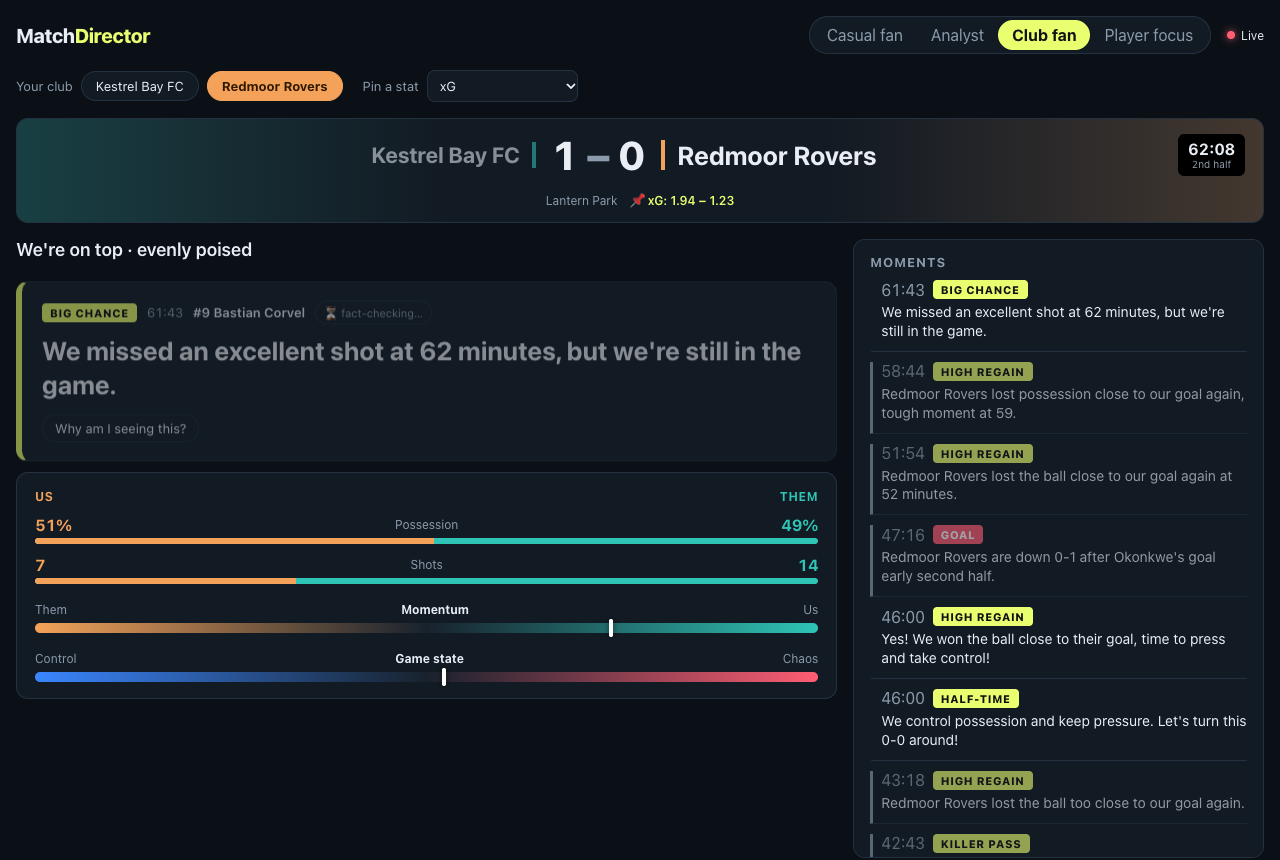
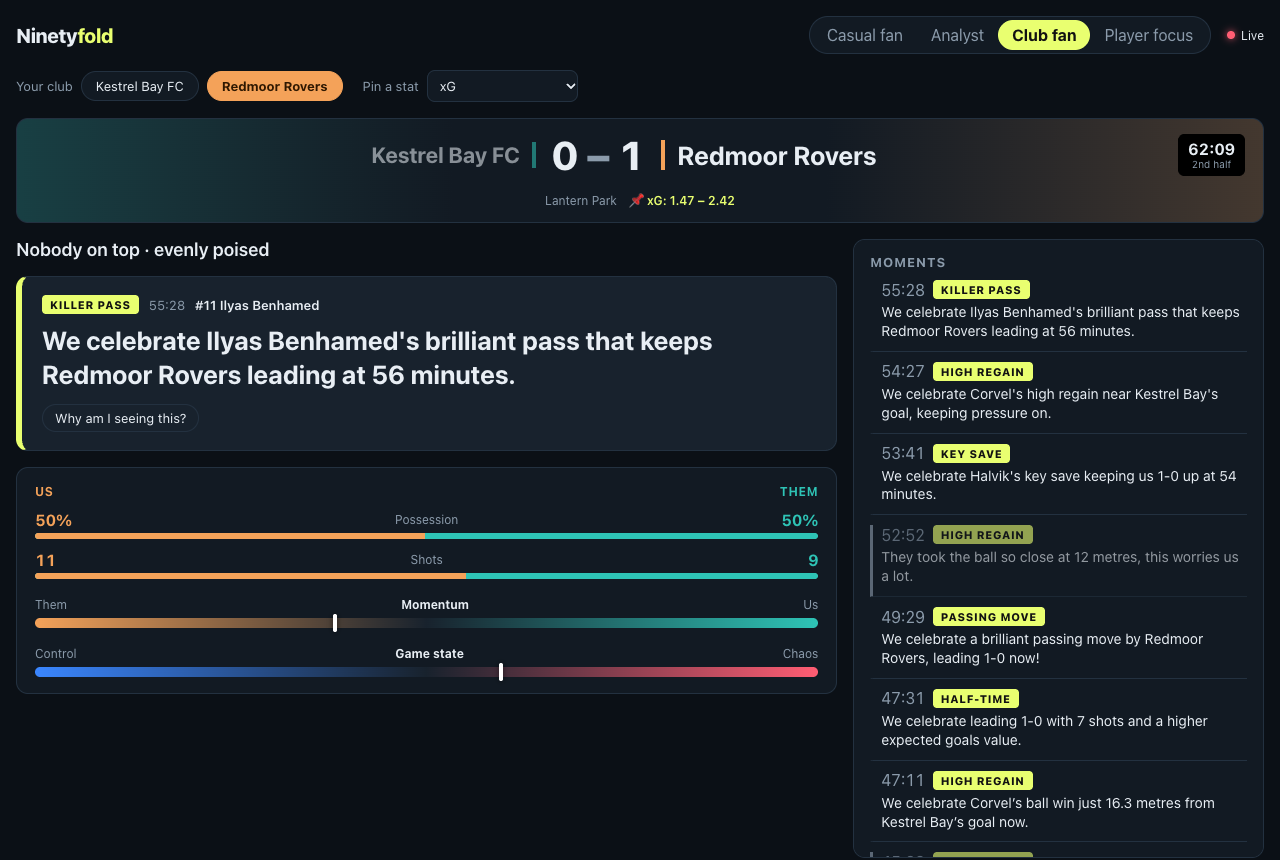
Rename the product to Ninetyfold
The app header, browser tab, README and evaluation report now use the
product name Ninetyfold; the code keeps MatchDirector as its project
and namespace name, as the README notes. README screenshots retaken
with the new name. The Copilot instructions state the product name.

diff --git a/src/web/src/App.tsx b/src/web/src/App.tsx
@@ -29,7 +29,7 @@ export default function App() {
     <div className={`studio mode-${prefs.mode}`}>
       <header className="topbar">
         <div className="brand">
-          Match<span>Director</span>
+          Ninety<span>fold</span>
         </div>
         <nav className="mode" aria-label="Viewer mode">
           {MODES.map((m) => (

diff --git a/src/web/index.html b/src/web/index.html
@@ -4,7 +4,7 @@
     <meta charset="UTF-8" />
     <link rel="icon" type="image/svg+xml" href="/favicon.svg" />
     <meta name="viewport" content="width=device-width, initial-scale=1.0" />
-    <title>MatchDirector</title>
+    <title>Ninetyfold</title>
   </head>
   <body>
     <div id="root"></div>

diff --git a/eval/MatchDirector.Eval/EvalReport.cs b/eval/MatchDirector.Eval/EvalReport.cs
@@ -49,7 +49,7 @@ public sealed class EvalReport(EvalOptions options)
     private string Markdown()
     {
         var md = new StringBuilder();
-        md.AppendLine("# MatchDirector evaluation");
+        md.AppendLine("# Ninetyfold evaluation");
         md.AppendLine();
         md.AppendLine($"Generated {DateTimeOffset.UtcNow:yyyy-MM-dd HH:mm} UTC by `eval/MatchDirector.Eval`. All matches are synthetic and seeded, so the deterministic results reproduce exactly; model results vary slightly between runs.");
         md.AppendLine();

diff --git a/README.md b/README.md
@@ -1,14 +1,14 @@
-# MatchDirector
+# Ninetyfold
 
 **An AI broadcast studio for explainable, personalised match intelligence.**
 
-MatchDirector watches a live (synthetic) football match and runs a small studio of AI agents over it. Code computes every statistic; the agents explain *why* each moment matters, check each other's work, and tell the same match differently to a casual fan, an analyst, a supporter of either club, or someone following one player. At full time they write the match report.
+Ninetyfold watches a live (synthetic) football match and runs a small studio of AI agents over it. Code computes every statistic; the agents explain *why* each moment matters, check each other's work, and tell the same match differently to a casual fan, an analyst, a supporter of either club, or someone following one player. At full time they write the match report.
 
 > **Numbers come from code; words come from AI.** Models never calculate a statistic. They only word facts that the stats engine has already computed, every number they write is checked against those facts, and every moment cites the events behind it.
 
 **Live demo:** https://overlayhub.whitemeadow-6a3a991d.swedencentral.azurecontainerapps.io. Matches play on demand: opening the page kicks one off within seconds (one match is about 9 minutes at 10× speed).
 
-*All clubs, players, venues and match data are fictional and generated synthetically. Built for the* Inside the Game *developer hackathon, October 2026.*
+*All clubs, players, venues and match data are fictional and generated synthetically. Built for the* Inside the Game *developer hackathon, October 2026. The code still uses the working name `MatchDirector` for its projects and namespaces.*
 
 | Analyst | Club fan |
 |---|---|
@@ -58,7 +58,7 @@ flowchart LR
 
 ## Challenge stages
 
-| Stage | What MatchDirector does | Where to look |
+| Stage | What Ninetyfold does | Where to look |
 |---|---|---|
 | (a) Ingest live events | Deterministic simulator streaming to Event Hubs; JSON-lines export as a reusable synthetic dataset | [`src/MatchDirector.Simulator`](src/MatchDirector.Simulator) |
 | (b) Interpret into stats and patterns | xG from distance and angle, pass difficulty and progression, ball and shot speed, possession by time, momentum, control vs chaos, player ratings | [`src/MatchDirector.StatsEngine`](src/MatchDirector.StatsEngine) |

diff --git a/.github/copilot-instructions.md b/.github/copilot-instructions.md
@@ -1,7 +1,9 @@
 # MatchDirector: instructions for GitHub Copilot
 
+Product name: **Ninetyfold** (use it in anything users see). `MatchDirector` remains the code and repository name.
+
 MatchDirector is an AI broadcast studio over synthetic football events: .NET 10 + Aspire, React/Vite,
-Microsoft Foundry and Microsoft Agent Framework. Keep these rules in sync with `CLAUDE.md`.
+Microsoft Foundry and Microsoft Agent Framework.
 
 ## Rules
 - Numbers come from code (`src/MatchDirector.StatsEngine`); LLMs only narrate. Every claim an agent makes must cite event IDs.

diff --git a/docs/evaluation.md b/docs/evaluation.md
@@ -1,4 +1,4 @@
-# MatchDirector evaluation
+# Ninetyfold evaluation
 
 Generated 2026-10-20 17:30 UTC by `eval/MatchDirector.Eval`. All matches are synthetic and seeded, so the deterministic results reproduce exactly; model results vary slightly between runs.
 
